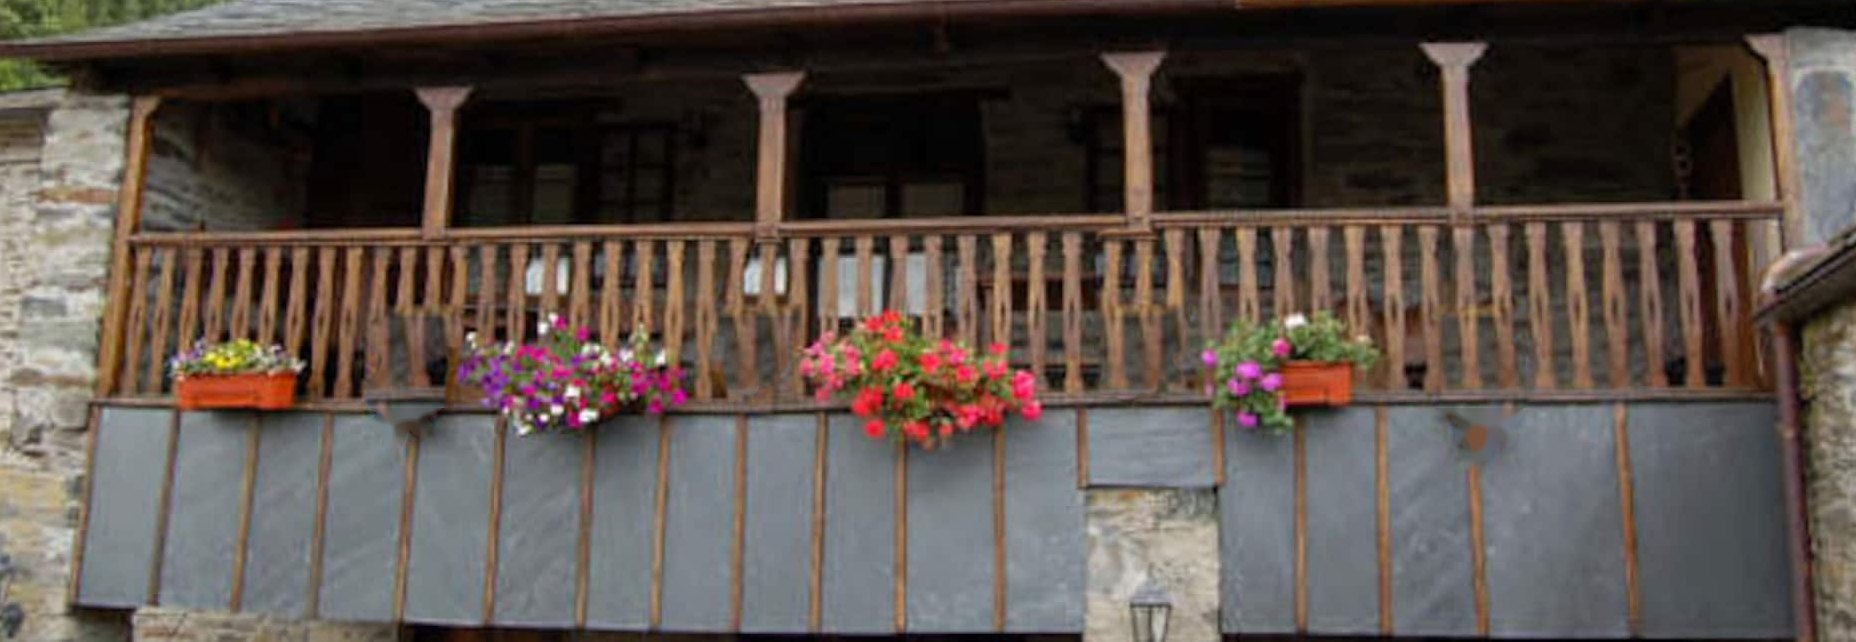
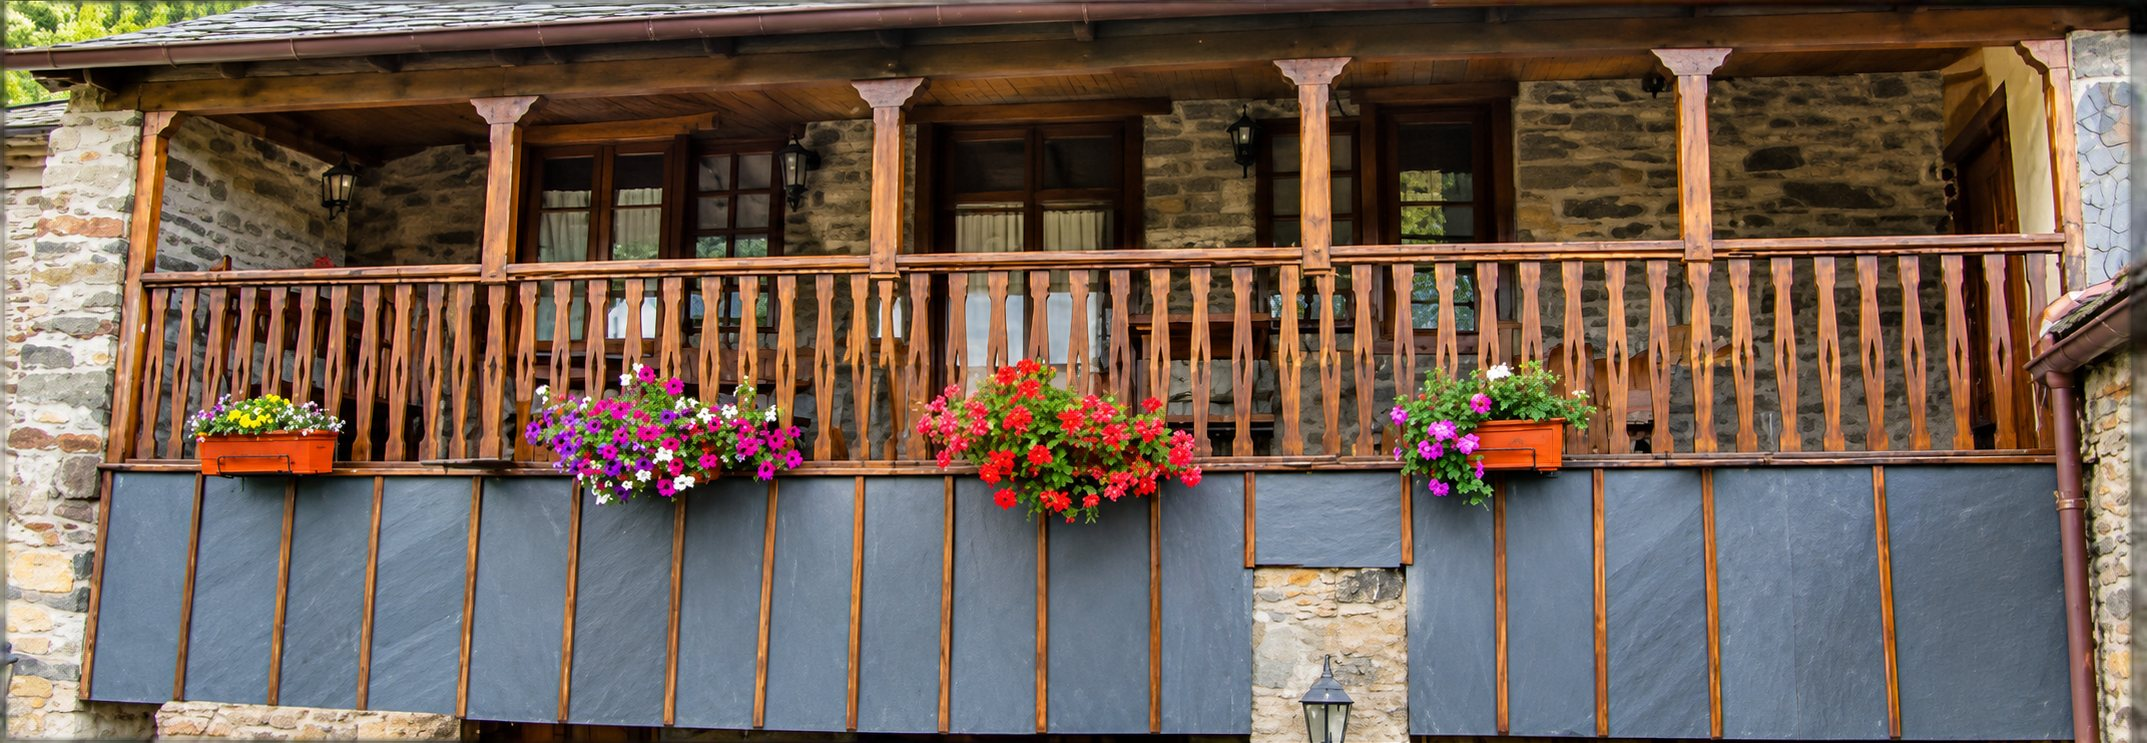
Corredor: base nueva desde la foto mejorada con IA (sin panoyas, alineada a la anterior)

diff --git a/js/corredor.js b/js/corredor.js
@@ -128,7 +128,7 @@
       (quieto ? 'Cada ristra es una cosa de la casa:' : 'Empuja una, o pulsa su nombre, y mira qué hay dentro.') + '</p>' +
       '<div class="corr-pista"><div class="corr-escenario">' +
       '<div class="corr-vista"><div class="corr-escena" role="group" aria-label="El corredor de madera con cuatro ristras de panoyas colgadas">' +
-      '<picture><source type="image/webp" srcset="' + esc(o.base + 'img/corredor/base.webp') + '"><img class="corr-base" src="' + esc(o.base + 'img/corredor/base.jpg') + '" alt="" width="' + ANCHO + '" height="' + ALTO + '" decoding="async"></picture>' +
+      '<picture><source type="image/webp" srcset="' + esc(o.base + 'img/corredor/base.webp?v=ia1') + '"><img class="corr-base" src="' + esc(o.base + 'img/corredor/base.jpg?v=ia1') + '" alt="" width="' + ANCHO + '" height="' + ALTO + '" decoding="async"></picture>' +
       '<div class="corr-capa"><canvas class="corr-lienzo" aria-hidden="true"></canvas>';
     var i;
     if (!quieto) {

diff --git a/index.html b/index.html
@@ -581,7 +581,7 @@
 <!-- los módulos (cada uno en su archivo; si falta alguno, construir.mjs quita su etiqueta y se queda el respaldo del HTML) -->
 <script src="js/cortina.js?v=6d7cde9c" defer></script>
 <script src="js/paja.js?v=0927da4f" defer></script>
-<script src="js/corredor.js?v=88fa3ecc" defer></script>
+<script src="js/corredor.js?v=b6e5d0fe" defer></script>
 <script src="js/mapa.js?v=3a93cd7d" defer></script>
 <script src="js/pizarra.js?v=ea9cc777" defer></script>
 <!-- la web -->
